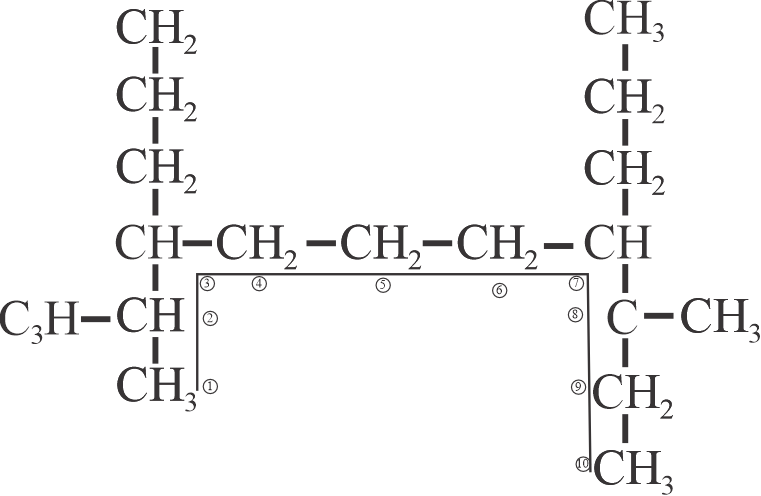
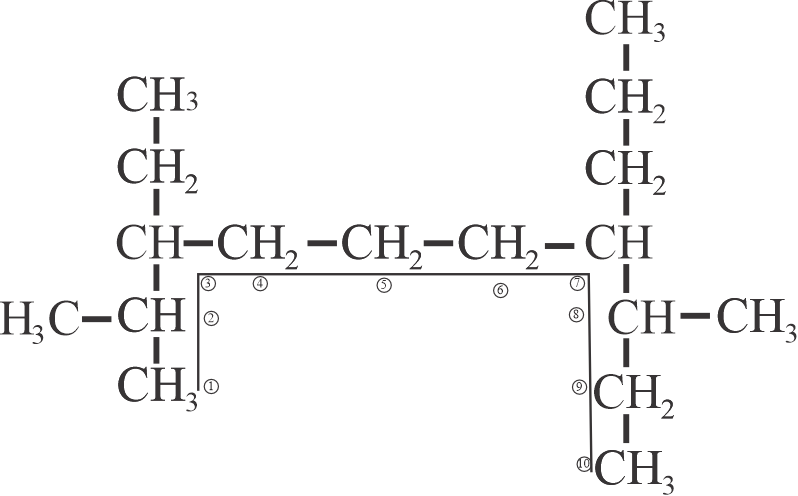
correcion 29

diff --git a/examenes/2024/cepreuna-2024-I-primera-etapa.tex b/examenes/2024/cepreuna-2024-I-primera-etapa.tex
@@ -866,7 +866,7 @@ $w=\dfrac{(0,3\,atm)(82\,L)(32\,g/mol)}{(0,082\,\dfrac{atm\cdot L}{mol\cdot {}^\
 \item Indique el nombre del compuesto:
 
 \begin{center}
-	\includegraphics[width=7.4 cm]{imagenes/CEPRE-UNA2024-I/etapa1/ing/quimica4c24-I.png}
+	\includegraphics[width=5.4 cm]{imagenes/CEPRE-UNA2024-I/etapa1/ing/quimica4c24-I.png}
 \end{center}
 
 \begin{enumerate}[label=\alph*)]
@@ -883,7 +883,7 @@ $w=\dfrac{(0,3\,atm)(82\,L)(32\,g/mol)}{(0,082\,\dfrac{atm\cdot L}{mol\cdot {}^\
 \textbf{Solucionario:}
 
 \begin{center}
-	\includegraphics[width=6.2 cm]{imagenes/CEPRE-UNA2024-I/etapa1/ing/quimica4c24-Ir.png}
+	\includegraphics[width=4.2cm]{imagenes/CEPRE-UNA2024-I/etapa1/ing/quimica4c24-Ir.png}
 \end{center}
 
 $3$-etil- $2,8$-dimetil-$7$-propil - decano\\
@@ -2003,7 +2003,7 @@ Así, la alternativa que coincide con 24 horas es \textbf{Iskay chunka tawayuq /
 	
 	Del gráfico
 	
-	$25-(27-x+z)+z+(28-y-z)=55$
+	$25+(27-x-z)+z+(28-y-z)=55$
 	
 	$80-x-y-z=55$
 	
@@ -2040,8 +2040,9 @@ Así, la alternativa que coincide con 24 horas es \textbf{Iskay chunka tawayuq /
 	$\Delta=4(a^2+2a+1)-4(2a^2-2)=0$
 	
 	$a^2-2a-3=0$
+	$(a-3) y (a+1)$
 	
-	$\therefore$ Suma $=-(-2)=$\fbox{$2$.}
+	$\therefore$ Suma $=3+(-1)=$\fbox{$2$.}
 	
 	\vspace{6mm}
 	

diff --git a/preliminares.tex b/preliminares.tex
@@ -5,7 +5,7 @@ organizar los exámenes aplicados en el proceso de admisión 2024-I de la
 Universidad Nacional del Altiplano – Puno, correspondientes a la primera y
 segunda etapa, tanto en la modalidad EXAMEN CEPREUNA como en el EXAMEN GENERAL.
 
-Este documento constituye un material de consulta académica que compila las
+Este solucionario constituye un material de consulta académica que compila las
 evaluaciones administradas en el marco del referido proceso, con el propósito de
 facilitar su revisión y consulta por parte de los postulantes y demás
 interesados. Su
@@ -19,12 +19,12 @@ instancias competentes de la Universidad Nacional del Altiplano – Puno y/o la
 Dirección de Admisión, las cuales prevalecen para todos los efectos
 institucionales y administrativos que correspondan.
 
-Asimismo, el presente documento tiene por objeto brindar un apoyo de consulta
+Asimismo, tiene por objeto brindar un apoyo de consulta
 para fines de preparación y orientación académica, sin generar derechos,
 obligaciones ni efectos distintos a los expresamente establecidos en la normativa
 vigente aplicable al proceso de admisión.
 
-En consecuencia, el Compendio Oficial se presenta como un instrumento de apoyo y
+En consecuencia, el solucionario se presenta como un instrumento de apoyo y
 referencia académica, elaborado sobre la base de los exámenes correspondientes a
 la primera y segunda etapa del proceso de admisión 2024-I, en las modalidades de
 EXAMEN CEPREUNA y EXAMEN GENERAL.

diff --git a/examenes/2024/general-2024-I-segunda-etapa.tex b/examenes/2024/general-2024-I-segunda-etapa.tex
@@ -5310,7 +5310,7 @@ Se pregunta por la mitad de catorce (chunka tawayuq / tunka pusini). La mitad es
 	\textbf{Solucionario:}
 	
 	"Ugly" significa feo/a. Su antónimo directo es "beautiful", que significa hermoso/a o bello/a.
-	
+	 
 	\vspace{6mm}
 \end{enumerate}
 
@@ -5756,7 +5756,7 @@ Se pregunta por la mitad de catorce (chunka tawayuq / tunka pusini). La mitad es
 \begin{center}
 	\begin{tabular}{ll ll ll ll ll ll}
 		1) E & 2) A & 3) E & 4) D & 5) C & 6) B \\
-		7) B & 8) B & 9) D & 10) E & 11) C & 12) C \\
+		7) D & 8) B & 9) D & 10) E & 11) C & 12) C \\
 		13) A & 14) A & 15) C & 16) E & 17) E & 18) B \\
 		19) B & 20) B & 21) D & 22) B & 23) A & 24) C \\
 		25) B & 26) B & 27) E & 28) B & 29) C & 30) B \\